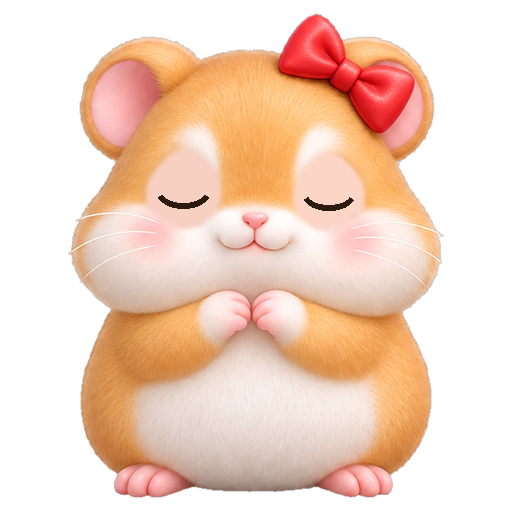
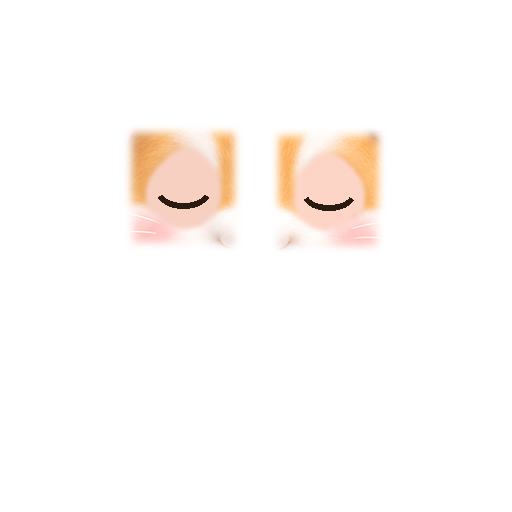
눈 깜빡임 전체 깜빡임 수정, 보드 가운데 제목 넘침 수정, 건설 불가 이유 표시, 독점 건설 안내 (CHG-036~039)

diff --git a/js/ui.js b/js/ui.js
@@ -63,12 +63,12 @@
 
   // ---------- 토스트 ----------
   let toastTimer = 0;
-  function toast(text) {
+  function toast(text, ms) {
     const el = $('#toast');
     el.textContent = text;
     el.classList.add('show');
     clearTimeout(toastTimer);
-    toastTimer = setTimeout(() => el.classList.remove('show'), 2200);
+    toastTimer = setTimeout(() => el.classList.remove('show'), ms || 2200);
   }
 
   // ---------- 모달 ----------
@@ -145,6 +145,7 @@
 
   function enterGame() {
     cancelQuiz();
+    resetMonoSeen();
     endFxDone = false;
     document.querySelectorAll('#end-fx').forEach((x) => x.remove());
     Object.keys(layers).forEach(closeModal);
@@ -867,6 +868,15 @@
           bubble(ev.from, '내 땅이… 😭');
           await sleep(fast ? 250 : 900);
           break;
+        case 'buildBlocked': // 내 땅인데 지을 수 없을 때 이유 (REQ-101)
+          if (ev.pid === HUMAN) {
+            const sp = BOARD[ev.pos], me = S.players[HUMAN];
+            const money = sp.house && me.money < sp.house ? ` (건설비 ${fmt(sp.house)} · 가진 씨앗 ${fmt(me.money)})` : '';
+            toast(`🏗 ${sp.name}: ${ev.reason}${money}`, 3500);
+            bubble(ev.pid, '못 지어요 😢');
+            await sleep(fast ? 150 : 500);
+          }
+          break;
         case 'cardVoid':
           bubble(ev.pid, ev.avoided ? '휴~ 피했다! 😌' : '카드 무효… 😢');
           mood(ev.pid, ev.avoided ? 'happy' : 'sad', 1500);
@@ -1028,6 +1038,7 @@
     layoutTokens();
     syncStateModal();
     syncCardQuiz();
+    checkNewMonopoly();
     if (layers.user && layers.user._refresh) {
       const r = layers.user._refresh;
       refreshing = true;
@@ -1132,6 +1143,7 @@
       } else {
         html = `<div class="msg">🐹 내 차례!</div><div class="sub">가운데 주사위 아래 버튼(또는 스페이스바)을 꾹 눌렀다 떼면 던져요</div>`;
       }
+      html += buildHint();
     } else if (S.phase === 'buy') {
       html = `<div class="msg">📍 ${BOARD[S.pendingBuy].name}에 도착!</div>
         <div class="btns"><button class="btn primary" data-a="showBuy">구매 창 열기</button></div>`;
@@ -1156,6 +1168,7 @@
         ? `<div class="msg">🎲 더블! 한 번 더 굴려요</div><div class="sub">가운데 주사위 아래 버튼을 꾹 눌렀다 떼세요</div>`
         : `<div class="msg">📍 ${here.name}</div><div class="sub">건설·저당·거래를 하고 턴을 끝내세요</div>
            <div class="btns"><button class="btn primary big" data-a="endTurn" data-primary>턴 끝내기 ✔</button></div>`;
+      html += buildHint();
     }
     if (S.phase !== 'postRoll') autoPaused = false;
     if (autoEndReady()) scheduleAutoEnd(); else clearAutoEnd();
@@ -1163,6 +1176,30 @@
     box._html = html;
     box.innerHTML = html;
     box.querySelectorAll('[data-a]').forEach((b) => { b.onclick = () => onAction(b.dataset.a); });
+  }
+
+  // 같은 색을 다 모은 도시에 지금 지을 수 있는 건물 수 안내 (UI-008) — "내 땅 관리"에선 여러 채를 한 번에 지을 수 있음
+  function buildHint() {
+    const n = E.ownedBy(S, HUMAN).filter((i) => !E.canBuild(S, HUMAN, i)).length;
+    if (!n) return '';
+    return `<div class="build-hint"><span>🏠 같은 색을 다 모은 도시 ${n}곳에 지금 건물을 지을 수 있어요. 한 턴에 여러 채도 돼요!</span>
+      <button class="btn small" data-a="manage">내 땅 관리 열기</button></div>`;
+  }
+
+  // 같은 색을 처음 다 모았을 때 알림 (UI-008). 이어하기로 들어온 게임의 기존 독점은 알리지 않음
+  let monoSeen = new Set();
+  function propGroups() { return Object.keys(GROUPS).filter((g) => g !== 'airport' && g !== 'util'); }
+  function resetMonoSeen() { monoSeen = new Set(propGroups().filter((g) => E.ownsGroup(S, HUMAN, g))); }
+  function checkNewMonopoly() {
+    if (busy || !S || S.phase === 'gameover') return;
+    for (const g of propGroups()) {
+      const has = E.ownsGroup(S, HUMAN, g);
+      if (has && !monoSeen.has(g)) {
+        monoSeen.add(g);
+        toast(`🏠 ${GROUPS[g].name} 색을 다 모았어요! '내 땅 관리'에서 건물을 여러 채 지을 수 있어요`, 5000);
+        bubble(HUMAN, '다 모았다! 🎉');
+      } else if (!has) monoSeen.delete(g); // 거래 등으로 잃으면 다시 모았을 때 또 알림
+    }
   }
 
   function onAction(a) {

diff --git a/css/style.css b/css/style.css
@@ -175,7 +175,8 @@ button { font-family: inherit; }
 
 /* 보드 중앙 */
 .center { grid-row: 2 / 11; grid-column: 2 / 11; display: flex; align-items: center; justify-content: center; background: radial-gradient(circle, #fff9e9 0, #fbe5b3 100%); border-radius: calc(1 * var(--u)); }
-.center-inner { display: flex; flex-direction: column; align-items: center; gap: calc(1.6 * var(--u)); }
+/* 가운데 내용은 세로로 쌓이므로 단위를 보드 높이 이하로 제한 — 넓은 보드에서 위·아래 칸에 걸치지 않게 (BUG-003) */
+.center-inner { --u: min(calc((1cqw + 1cqh) / 2), 1cqh); display: flex; flex-direction: column; align-items: center; gap: calc(1.6 * var(--u)); }
 .center-logo { font-family: var(--font-title); font-size: calc(5.4 * var(--u)); color: #c97a00; text-shadow: 0 calc(.4 * var(--u)) 0 #ffe1a1; transform: rotate(-4deg); }
 .center-info { font-size: calc(2.2 * var(--u)); color: var(--muted); text-align: center; line-height: 1.5; }
 .deck-row { display: flex; gap: calc(3 * var(--u)); }
@@ -823,9 +824,9 @@ button { font-family: inherit; }
 @keyframes wb-bob { 50% { transform: translate(-50%, -96%); } }
 
 /* ---------- 눈 깜빡임 (REQ-130) ---------- */
+/* 기본 그림은 그대로 두고 같은 윤곽의 감은 눈 그림을 위에 겹친다 — 기본 그림을 숨기면 0.2초 전환 때문에 전체가 깜빡임 (BUG-002) */
 .himg .hm-blink { transition: none; }
 .himg.blinking .hm-blink { opacity: 1; }
-.himg.blinking:has(.hm-blink) .hb { opacity: 0; transition: none; }
 .hamster.blinking .eyes-open { display: none; }
 .hamster.blinking .eyes-closed { display: inline; }
 
@@ -866,3 +867,6 @@ button { font-family: inherit; }
   }
   .sheet-handle i { width: 46px; height: 5px; border-radius: 3px; background: #c9b48f; }
 }
+
+/* 지금 지을 수 있는 건물 안내 (UI-008) */
+.build-hint { margin-top: 10px; padding: 8px 10px; border: 2px dashed var(--accent); border-radius: 12px; background: #fff4d6; display: flex; flex-direction: column; align-items: center; gap: 6px; font-size: 14px; text-align: center; color: var(--accent-ink); }

diff --git a/js/engine.js b/js/engine.js
@@ -328,7 +328,11 @@
           return;
         }
         if (pr.owner === pid) {
-          if (!canLandBuild(s, pid, i)) { s.phase = 'build'; s.pendingBuild = i; }
+          const why = canLandBuild(s, pid, i);
+          if (!why) { s.phase = 'build'; s.pendingBuild = i; return; }
+          // 지을 수 없으면 이유를 알림 (REQ-101). 기록은 사람만 (컴퓨터 것까지 남기면 기록이 너무 길어짐)
+          emit(s, { type: 'buildBlocked', pid, pos: i, reason: why });
+          if (!p.isAI) log(s, `${p.name}: ${sp.name}에 건물을 지을 수 없어요 — ${why}`);
           return;
         }
         if (ctx && ctx.noRent) { log(s, `${p.name}: 무료 항공권으로 ${sp.name} 통행료 면제!`, 'good'); return; }
@@ -594,9 +598,10 @@
   // 내 땅에 도착했을 때 짓기: 같은 색을 다 갖지 않아도, 균등 규칙 없이 한 단계
   function canLandBuild(s, pid, i) {
     const sp = BOARD[i], pr = s.props[i];
-    if (!pr || sp.type !== 'prop' || pr.owner !== pid) return '내 도시가 아니에요';
-    if (pr.mortgaged) return '저당 잡힌 도시예요';
-    if (pr.houses >= 5) return '이미 궁전이 있어요';
+    if (!pr || pr.owner !== pid) return '내 도시가 아니에요';
+    if (sp.type !== 'prop') return '공항·공공시설에는 건물을 지을 수 없어요';
+    if (pr.mortgaged) return '저당 잡힌 도시예요 (저당을 풀면 지을 수 있어요)';
+    if (pr.houses >= 5) return '이미 궁전까지 다 지었어요';
     if (pr.houses < 4 && s.bankHouses < 1) return '은행에 굴이 다 떨어졌어요';
     if (pr.houses === 4 && s.bankHotels < 1) return '은행에 궁전이 다 떨어졌어요';
     if (P(s, pid).money < sp.house) return '해바라기씨가 부족해요';

diff --git a/tests/quiz.js b/tests/quiz.js
@@ -113,6 +113,32 @@ console.log('== 내 땅에 도착하면 건물 짓기 ==');
   check(E.act(s, H, { type: 'skipBuild' }) === '' && s.phase === 'postRoll' && s.props[3].houses === 0, '안 짓기');
 }
 
+console.log('== 내 땅인데 지을 수 없으면 이유 알림 ==');
+for (const [label, setup, pos, expect] of [
+  ['공항', (s) => { s.props[5].owner = H; }, 5, '공항·공공시설'],
+  ['저당', (s) => { s.props[3].owner = H; s.props[3].mortgaged = true; }, 3, '저당'],
+  ['돈 부족', (s) => { s.props[3].owner = H; s.players[H].money = 20; }, 3, '해바라기씨가 부족'],
+  ['궁전 완성', (s) => { s.props[3].owner = H; s.props[3].houses = 5; s.bankHotels--; }, 3, '궁전까지'],
+  ['은행 굴 없음', (s) => { s.props[3].owner = H; s.bankHouses = 0; }, 3, '굴이 다 떨어졌'],
+]) {
+  const s = game();
+  setup(s);
+  s.seed = seedFor(s.seed, 1, 2);
+  s.players[H].pos = pos - 3;
+  if (s.players[H].pos < 0) s.players[H].pos += 40;
+  E.act(s, H, { type: 'roll' });
+  const ev = s.events.find((e) => e.type === 'buildBlocked');
+  check(s.phase === 'postRoll' && ev && ev.pos === pos && ev.reason.includes(expect) && s.log.some((l) => l.text.includes('지을 수 없어요')), `${label}: 건설 단계 없이 이유 "${ev && ev.reason}"`);
+}
+{
+  const s = game();
+  const ai = (H + 1) % 4;
+  s.current = ai; s.props[5].owner = ai;
+  s.seed = seedFor(s.seed, 1, 2); s.players[ai].pos = 2;
+  E.act(s, ai, { type: 'roll' });
+  check(s.events.some((e) => e.type === 'buildBlocked') && !s.log.some((l) => l.text.includes('지을 수 없어요')), '컴퓨터: 이벤트만, 기록은 남기지 않음');
+}
+
 console.log('== 세계 이벤트 (5바퀴마다) ==');
 {
   const s = game();

diff --git a/tools/make_blink.py b/tools/make_blink.py
@@ -1,4 +1,5 @@
 """햄스터 눈 감은 프레임 만들기: assets/hamsters/<id>.png → <id>-blink.png  (REQ-130 눈 깜빡임)
+결과는 눈 부분만 있는 겹침용 그림 (나머지 투명) — 게임이 기본 그림 위에 겹쳐 보인다.
 
 사용법: python tools/make_blink.py [id ...]   (생략하면 4마리 모두)
 
@@ -77,6 +78,16 @@ def make(id_):
         lw = max(3, int(ew * 0.11))
         box = [cx - ew * 0.45, cy - ew * 0.28, cx + ew * 0.45, cy + ew * 0.28]
         d.arc(box, start=20, end=160, fill=(43, 26, 16, 255), width=lw)  # 아래로 휜 감은 눈 ‿
+    # 게임은 이 그림을 기본 그림 "위에 겹쳐" 쓴다 → 눈 부분만 남기고 나머지는 투명하게
+    # (윤곽까지 겹치면 반투명 가장자리가 두 번 칠해져 깜빡일 때마다 테두리가 진해짐, BUG-002)
+    keep = np.zeros(px.shape[:2], bool)
+    for _, x0, y0, x1, y1, _m in eyes:
+        ew, eh = x1 - x0, y1 - y0
+        keep[max(0, int(y0 - eh * 0.35)):int(y1 + eh * 0.35), max(0, int(x0 - ew * 0.35)):int(x1 + ew * 0.35)] = True
+    soft_keep = np.asarray(Image.fromarray((keep * 255).astype('uint8')).filter(ImageFilter.GaussianBlur(4))) / 255.0
+    arr = np.array(res)
+    arr[..., 3] = (arr[..., 3] * soft_keep).astype('uint8')
+    res = Image.fromarray(arr)
     dst = os.path.join(DIR, id_ + '-blink.png')
     res.save(dst)
     print(f'{dst}: eyes at {[(int(e[1]), int(e[2]), int(e[3]), int(e[4])) for e in eyes]}')

diff --git a/docs/MASTER_PRD.md b/docs/MASTER_PRD.md
@@ -5,7 +5,7 @@
 
 | 항목 | 내용 |
 |---|---|
-| 기준 변경 | CHG-035 (코드를 문서에 맞춤: 눈 깜빡임 · 쳇바퀴 파산 · 휴대폰 하단 시트 · BUG-001) |
+| 기준 변경 | CHG-039 (같은 색 독점 시 여러 채 건설 안내) |
 | 갱신일 | 2026-11-02 |
 | 플랫폼 | 웹 브라우저 (PC 우선, 휴대폰 대응) |
 | 플레이 인원 | 사람 1명 + 컴퓨터 1~3명 |
@@ -138,7 +138,7 @@
 - **REQ-021** 주인 없는 칸 도착 → 정가 구매 또는 거절. 거절하면 즉시 경매(모든 플레이어, 현재 플레이어부터 돌아가며 입찰/포기, 포기하면 재참여 불가, 최고 입찰자만 남으면 낙찰).
 - **REQ-022** 남의 칸 도착 → 통행료 지불(저당 잡힌 땅은 통행료 없음). 통행료 = 기본 통행료 × 세계 이벤트 배율(REQ-121), 반올림.
 - **REQ-023** 독점: 같은 색 그룹을 모두 소유하면 건물 없는 칸의 기본 통행료 2배.
-- **REQ-024** "내 땅 관리"로 짓기: 독점 그룹에서 **균등 건설**(칸 사이 차이 ≤1), 그룹에 저당 칸이 있으면 불가, 굴 4채 → 궁전 1채(굴 4채 반납 + 건설비 1회), 은행 재고가 없으면 불가.
+- **REQ-024** "내 땅 관리"로 짓기: 독점 그룹에서 **균등 건설**(칸 사이 차이 ≤1), 그룹에 저당 칸이 있으면 불가, 굴 4채 → 궁전 1채(굴 4채 반납 + 건설비 1회), 은행 재고가 없으면 불가. **한 턴에 지을 수 있는 수에는 제한이 없다** (사람·컴퓨터 같은 규칙 — 그래서 독점한 컴퓨터는 한 턴에 궁전까지 올리기도 함; 2026-11-02 사용자 결정으로 유지, CHG-039). 도착 건설(REQ-101)은 도착 1번에 1단계.
 - **REQ-025** 건물 매각은 건설비의 50% 환급, 균등하게 매각. 은행 굴이 4채 미만일 때 궁전 매각은 궁전을 통째로 팔고 굴 5채 값의 절반 환급.
 - **REQ-026** 저당: 저당가 수령, 해제 시 저당가 + 10%. 건물이 있는 그룹의 칸은 저당 불가.
 - **REQ-027** 저당 잡힌 땅을 거래·파산으로 받으면 이자 10%를 자동으로 내고 저당 상태로 받는다.
@@ -268,7 +268,7 @@
 
 ### SYS-009 특수 규칙
 - **REQ-100 텔레포트(20번 칸)**: 도착하면 보드 칸을 눌러 원하는 칸으로 순간이동(확인 창에 빈 땅/내 땅/남의 땅 통행료/케이지 경고 안내), "그대로 있기" 가능. 이동한 칸의 효과 적용. 20번보다 앞 번호 칸으로 가면 출발 통과(🌻200, 0번에 정확히 도착하면 옵션 REQ-151 적용). 옵션 상금(REQ-150)은 받고 텔레포트.
-- **REQ-101 내 땅 건설**: 내 도시(공항·공공시설 제외)에 도착하면 "건물을 지을까요?" 창 — 건설비와 통행료 변화(예: 🌻4 → 🌻20) 표시. 같은 색을 다 갖지 않아도, 균등 규칙 없이 도착할 때마다 한 단계. 저당 중·재고 없음·돈 부족이면 불가.
+- **REQ-101 내 땅 건설**: 내 도시(공항·공공시설 제외)에 도착하면 "건물을 지을까요?" 창 — 건설비와 통행료 변화(예: 🌻4 → 🌻20) 표시. 같은 색을 다 갖지 않아도, 균등 규칙 없이 도착할 때마다 한 단계. **내 땅에 도착했는데 지을 수 없으면 창 대신 이유를 알린다** (사람: 화면 아래 안내 3.5초 + 말 위 "못 지어요 😢" + 게임 기록 한 줄; 컴퓨터는 알리지 않음). 이유: 공항·공공시설 / 저당 중(저당을 풀면 가능) / 해바라기씨 부족(건설비·가진 씨앗 표시) / 이미 궁전 / 은행에 굴·궁전 없음.
 - **REQ-102 강제 매입**: 남의 칸에서 통행료를 다 낸 뒤, 궁전이 없고 저당이 아닌 땅이면 "강제로 사 버릴까요?" 창. **매입가 = (땅값 + 지은 건물 공사비) × 1.2, 10 단위 올림**. 매입가는 원래 주인에게, 건물도 함께 넘어온다. 빚이 생겼거나 매입가만큼 돈이 없으면 제안 없음.
 - **REQ-120 세계 이벤트**: 5·10·15…바퀴가 시작될 때 시드 난수로 하나 발생, 큰 카드로 발표.
 - **REQ-121** 세계 이벤트 종류
@@ -301,7 +301,7 @@
 - **REQ-114** 컴퓨터 햄스터는 짧은 말풍선 리액션을 한다 ("찍찍! ○○는 내 거야!" 등).
 
 ### SYS-011 연출 · 사운드
-- **REQ-130** 햄스터 말: 골든 햄스터 4종 (해바라기=노랑·해바라기 꽃, 보리=빨강·리본, 콩떡=파랑·모자, 땅콩=초록·안경과 스카프). 대기 중 숨쉬기와 **가끔 눈 깜빡임**(약 0.15초, 가끔 두 번; 말·시작 화면·배경 햄스터, 표정 중이거나 케이지·파산 중이면 안 함 — 그림 햄스터는 감은 눈 프레임 `<id>-blink.png`, SVG 햄스터는 감은 눈 모양), 칸마다 폴짝 이동, 기쁨/슬픔/잠 표정(그림이 없으면 확대·기울이기·눈물·Zz). 같은 칸에서 겹치지 않게 배치. **파산하면 쳇바퀴 위에서 달리다 떨어지며 퇴장**(1.5초, 빨리 감기 0.45초) 후 말이 사라짐.
+- **REQ-130** 햄스터 말: 골든 햄스터 4종 (해바라기=노랑·해바라기 꽃, 보리=빨강·리본, 콩떡=파랑·모자, 땅콩=초록·안경과 스카프). 대기 중 숨쉬기와 **가끔 눈 깜빡임**(약 0.15초, 가끔 두 번; 말·시작 화면·배경 햄스터, 표정 중이거나 케이지·파산 중이면 안 함 — 그림 햄스터는 기본 그림 위에 눈 부분만 있는 감은 눈 그림 `<id>-blink.png`를 겹쳐 **눈만 바뀌고 몸·윤곽은 그대로**, SVG 햄스터는 감은 눈 모양), 칸마다 폴짝 이동, 기쁨/슬픔/잠 표정(그림이 없으면 확대·기울이기·눈물·Zz). 같은 칸에서 겹치지 않게 배치. **파산하면 쳇바퀴 위에서 달리다 떨어지며 퇴장**(1.5초, 빨리 감기 0.45초) 후 말이 사라짐.
 - **REQ-131** 기쁜 지출(구매·낙찰·건설)과 돈을 받을 때는 웃는 얼굴 + 동전 소리, 통행료·세금·벌금 등은 슬픈 얼굴.
 - **REQ-132** 건설 연출: 칸 위 공사 장면(크레인·망치·흙먼지, 약 1.2초, 빨리 감기 0.4초) 후 건물이 보드 안쪽 가장자리에 입체적으로 일어선다.
 - **REQ-133** 주사위: 사용자 그림 `assets/dice/face1~6.png`(치즈 주사위) → `face.png` → 유리구슬 3D 주사위 순으로 사용. 포물선 비행·회전·통통 튐(0.9~1.8초, 빨리 감기 0.34초), 최대 높이는 보드 안.
@@ -321,8 +321,9 @@
 - **UI-002 배경**: 시작·게임 화면 모두 화면 전체에 세계지도(Natural Earth로 만든 `assets/background/world-map.svg`) + 대륙 위 햄스터 8마리 + 점선 여행 경로, 불투명도 38%, 눌리지 않음. `assets/background/bg.png`가 있으면 그 그림으로 대체.
 - **UI-003 게임 화면 배치**: 왼쪽 보드는 화면 높이에 꽉 차게, 넓은 화면에서 가로 최대 1.45배까지 늘어나는 직사각형(900px 이하 정사각형). 오른쪽 끝 패널: 도구 모음(🏠 내 땅 관리, 🤝 거래, ⏩ 빨리 감기, 🎵 배경음악, 🔊 효과음, ☰ 메뉴) / 플레이어 카드 / 할 일 / 게임 기록. 보드 안 크기는 보드 가로·세로 평균의 1% 단위.
 - **UI-004 칸 표시**: 소유한 칸은 바탕이 주인 햄스터 색(52%)으로 물듦, 저당은 바랜 색 + "저당" 도장. 주인이 있는 칸(공공시설 제외)은 가격 대신 지금 통행료("통행 🌻20", 오르면 주황·내리면 파랑). 축제 그룹 칸은 반짝임. 텔레포트 고르는 동안 모든 칸이 보랏빛으로 반짝임.
-- **UI-005 보드 가운데**: 제목, 주사위, 힘 게이지, 결과 글자, 굴리기 버튼(젤리 사탕 모양, 사람이 굴릴 수 있을 때만), 바퀴 수·은행 재고·현재 세계 이벤트·다음 세계 이벤트 바퀴, 카드 더미, 해바라기씨 장식(불투명도 42%, 고정).
+- **UI-005 보드 가운데**: 제목, 주사위, 힘 게이지, 결과 글자, 굴리기 버튼(젤리 사탕 모양, 사람이 굴릴 수 있을 때만), 바퀴 수·은행 재고·현재 세계 이벤트·다음 세계 이벤트 바퀴, 카드 더미, 해바라기씨 장식(불투명도 42%, 고정). **가운데 내용은 어떤 화면 비율에서도 가운데 칸 안에 들어가야 한다** (위·아래 줄 칸에 걸치지 않음) — 가운데 내용의 크기 단위는 보드 높이를 넘지 않는다.
 - **UI-006 창(모달)**: 구매, 경매, 건설 제안, 강제 매입, 공격 대상, 거래 제안, 빚, 카드 공개, 세계 이벤트, 수학/카드 문제, 텔레포트 확인, 결과. 칸을 누르면 상세 카드(국기·랜드마크·통행료 표·주인·건물).
+- **UI-008 독점 건설 안내**: 사람이 어떤 색 그룹을 처음 다 모으면(구매·낙찰·거래·매입 등) 화면 아래 안내 5초 "🏠 ○○ 색을 다 모았어요! '내 땅 관리'에서 건물을 여러 채 지을 수 있어요" + 말 위 "다 모았다! 🎉". 이어하기로 들어온 게임에서 이미 가진 독점은 다시 알리지 않고, 잃었다가 다시 모으면 다시 알림. 또 내 차례(굴리기 전 · 굴린 뒤)에 지금 지을 수 있는 독점 도시가 있으면 할 일 패널에 "같은 색을 다 모은 도시 N곳에 지금 건물을 지을 수 있어요. 한 턴에 여러 채도 돼요!" + [내 땅 관리 열기].
 - **UI-007 휴대폰(900px 이하)**: 보드는 화면 위, 패널(도구 모음 → 할 일 → 플레이어 카드 2열 → 게임 기록)은 화면 아래에 고정된 **하단 시트**. 접힌 시트는 보드 아래 남는 높이(최소 200px)를 차지해 보드를 가리지 않고, 시트 안에서 스크롤. 위쪽 손잡이를 누르면 화면 높이의 82%까지 펼침/접기. 창(모달)은 시트 위에 뜬다. 가로 스크롤 없음.
 
 ---
@@ -332,7 +333,7 @@
 - **DATA-002 오버레이 우선순위** (`Engine.actor`): 빚 → 공격 대상 고르기 → 카드 문제 → 경매 → 거래 제안 → 현재 플레이어.
 - **DATA-003 엔진 행동** (`Engine.act`): roll, payFine, useJailCard, buy, decline, bid, pass, build, sell, mortgage, unmortgage, endTurn, landBuild, skipBuild, teleport{to}, takeover, skipTakeover, cardQuizAnswer{correct}, forfeitRoll, pickTarget{target}, proposeTrade, respondTrade, payDebt, bankrupt. 성공 시 `''`, 실패 시 한국어 사유.
 - **DATA-004 정적 데이터**: `js/data.js` (GROUPS, BOARD 40칸, CARDS 60장, HAMSTERS 4종, CONST: START_MONEY 1500, GO_SALARY 200, JAIL_FINE 50, JAIL_POS 10, BANK_HOUSES 32, BANK_HOTELS 12), `js/questions.js` (history, common: `{q, a, w:[오답2]}`).
-- **DATA-005 사용자 그림 자산** (없으면 대체): 햄스터 `assets/hamsters/<id>.png`(+ -happy/-sad/-sleep, 감은 눈 -blink는 `tools/make_blink.py`로 생성), 건물 `assets/buildings/house.png`·`palace.png`, 주사위 `assets/dice/face1~6.png`·`face.png`, 랜드마크, 국기, 배경 `assets/background/bg.png`, 음악 `assets/music/bgm.mp3`. 생성 프롬프트는 각 폴더의 `PROMPTS.md`, 라이선스는 `assets/LICENSES.md`.
+- **DATA-005 사용자 그림 자산** (없으면 대체): 햄스터 `assets/hamsters/<id>.png`(+ -happy/-sad/-sleep, 감은 눈 -blink는 `tools/make_blink.py`로 생성하는 눈 부분만 있는 겹침용 그림), 건물 `assets/buildings/house.png`·`palace.png`, 주사위 `assets/dice/face1~6.png`·`face.png`, 랜드마크, 국기, 배경 `assets/background/bg.png`, 음악 `assets/music/bgm.mp3`. 생성 프롬프트는 각 폴더의 `PROMPTS.md`, 라이선스는 `assets/LICENSES.md`.
 
 ---
 
@@ -374,6 +375,8 @@
 | KI-001 | 눈 깜빡임 미구현 | **Fixed** — CHG-035 (REQ-130) |
 | KI-002 | 파산 연출이 "쳇바퀴에서 떨어짐"과 다름 | **Fixed** — CHG-035 (REQ-130) |
 | KI-003 | 휴대폰 패널이 하단 시트가 아님 | **Fixed** — CHG-035 (UI-007) |
+| BUG-002 | 눈을 깜빡일 때 햄스터 전체가 깜빡임 (CHG-035에서 생김). [`BUGS/BUG-002.md`](BUGS/BUG-002.md) | **Fixed** — CHG-036 |
+| BUG-003 | 넓은 화면에서 보드 가운데 제목이 위쪽 칸에 걸침. [`BUGS/BUG-003.md`](BUGS/BUG-003.md) | **Fixed** — CHG-037 |
 | KI-004 | "보통: 독점 시 3채까지 우선 건설" | **No change needed** — 다시 확인하니 컴퓨터는 항상 가장 적게 지은 칸부터 지어 모든 독점 칸이 3채가 된 뒤에야 4채로 감 = 문서와 일치 (CHG-034 때 잘못 판단) |
 
 현재 열린 문제 없음.

diff --git a/docs/BUGS/BUG-002.md b/docs/BUGS/BUG-002.md
@@ -1,0 +1,34 @@
+# BUG-002 — 눈을 깜빡일 때 햄스터 전체가 깜빡임
+
+- 발견일: 2026-11-02 (사용자 신고: "눈을 깜빡일 때마다 캐릭터 전체가 깜빡여")
+- 상태: **Fixed** (CHG-036)
+- 관련 요구사항: REQ-130
+- 도입: CHG-035 (눈 깜빡임 추가)
+- 심각도: 중간 (눈에 띄는 깜빡임이 몇 초마다 반복)
+
+## 현상
+그림 햄스터가 눈을 깜빡일 때, 눈만 감았다 뜨는 것이 아니라 햄스터 전체가 순간 사라졌다가 흐릿하게 다시 나타난다.
+
+## 재현과 측정
+헤드리스 Chrome에서 한 마리에 `blinking`을 0.15초 붙였다 떼며 20~25ms마다 불투명도를 기록 (수정 전):
+
+| 시각 | 기본 그림 | 감은 눈 그림 |
+|---|---|---|
+| 0~150ms (감음) | 0.00 | 1.00 |
+| 151ms (뜸) | **0.00** | **0.00** ← 둘 다 안 보임 |
+| 176ms | 0.07 | 0.00 |
+| 226ms | 0.58 | 0.00 |
+| 351ms | 1.00 | 0.00 |
+
+## 원인
+깜빡이는 동안 기본 그림(`.hb`)을 숨기고 감은 눈 그림을 보였다. 감은 눈 그림은 즉시 사라지지만, 기본 그림에는 원래 `.himg img { transition: opacity .2s }`가 걸려 있어 0에서 1로 0.2초 동안 서서히 돌아온다. 그 사이 햄스터 전체가 사라졌다 흐릿하게 나타난다.
+
+## 해결
+1. 기본 그림은 숨기지 않고 그대로 두고, 감은 눈 그림을 그 위에 겹쳐 보였다 감춘다 (전환 없음).
+2. 겹치기만 하면 반투명한 윤곽 가장자리가 두 번 칠해져 깜빡일 때마다 **테두리가 1px 진해지는** 것이 픽셀 비교로 드러남 → 감은 눈 그림을 **눈 부분만 남기고 나머지는 투명**하게 다시 만듦 (`tools/make_blink.py`, 가장자리는 부드럽게).
+
+## 해결 기록
+2026-11-02, CHG-036
+- `css/style.css`: 깜빡임 중 기본 그림(`.hb`)을 숨기던 규칙 삭제 → 불투명도 기록에서 기본 그림이 내내 1.00
+- `tools/make_blink.py` + `assets/hamsters/*-blink.png` 4장 재생성: 눈 부분만 있는 겹침용 그림
+- 눈 뜬/감은 상태 픽셀 비교: 1단계(겹치기만)에서는 바뀐 픽셀이 눈 + 몸 전체 윤곽(가로 12~87%, 세로 2~97%) → 2단계(눈 부분만 있는 그림) 후 눈 부분만(가로 30~71%, 세로 27~43%)

diff --git a/docs/BUGS/BUG-003.md b/docs/BUGS/BUG-003.md
@@ -1,0 +1,31 @@
+# BUG-003 — 보드 가운데 제목이 위쪽 칸에 걸쳐 보임
+
+- 발견일: 2026-11-02 (사용자 신고: 스크린샷 — "햄스터 월드 투어라는 글자가 살짝 게임판에 걸쳐져 보여")
+- 상태: **Fixed** (CHG-037)
+- 관련 요구사항: UI-003, UI-005
+- 심각도: 낮음 (보기 문제, 진행 영향 없음)
+
+## 현상
+넓은 화면에서 보드 가운데 내용(제목 · 주사위 · 결과 · 굴리기 버튼 · 정보 줄 · 카드 더미)이 가운데 칸보다 높아져 제목이 위쪽 줄 칸(로마~파리)에 걸치고, 아래쪽 카드 더미도 아래 줄에 닿는다.
+
+## 재현과 측정
+헤드리스 Chrome, 가장 긴 경우(세계 이벤트 표시 + 더블 결과 + 텔레포트 상금 줄)에서 가운데 칸 높이와 내용 높이(px):
+
+| 화면 | 가운데 칸 | 내용 | 위로 넘침 | 아래로 넘침 |
+|---|---|---|---|---|
+| 1272×897 | 615 | 532 | - | - |
+| 1280×720 | 521 | 493 | - | - |
+| 1366×768 | 558 | 544 | - | - |
+| 1400×850 | 620 | 575 | - | - |
+| **1600×900** | 658 | 663 | **8** | - |
+| **1920×1080** | 795 | 830 | **25** | **10** |
+| 390×844 | 272 | 235 | - | - |
+
+## 원인
+보드 안 크기 단위 `--u`는 보드 **가로·세로 평균**의 1%(CHG-011). 넓은 화면에서는 보드가 가로로 최대 1.45배까지 늘어나므로, 세로로 쌓인 가운데 내용이 가로 폭에 비례해 커지지만 가운데 칸 높이는 세로에만 비례한다. CHG-030에서 가운데 정보에 2줄(현재 세계 이벤트, 다음 세계 이벤트)이 늘며 여유가 없어졌다.
+
+## 해결
+가운데 내용(`.center-inner`) 안에서만 단위를 `min(가로·세로 평균, 세로)`의 1%로 바꿔, 보드가 옆으로 넓어져도 가운데 내용은 보드 높이 기준으로만 커지게 한다. 정사각형 보드(900px 이하 포함)에서는 지금과 같다.
+
+## 해결 기록
+2026-11-02, CHG-037: `css/style.css` `.center-inner`에 `--u: min(calc((1cqw + 1cqh) / 2), 1cqh)`. 같은 측정 7개 화면에서 모두 넘침 없음 (아래 CHG-037 참고).

diff --git a/CLAUDE.md b/CLAUDE.md
@@ -50,7 +50,7 @@ Scripts are classic `<script>` tags (no ES modules, since `file://` blocks them)
 - Modals use three layers: `state` (buy/auction/trade offer/game over; derived from engine state in `syncStateModal`), `user` (windows the player opened), and `card`.
 - Other moving parts in this file: 3D buildings drawn on the board's inner edge (`renderBuildings`), the hold-to-roll power gauge (`startCharge`/`releaseCharge`), auto end-turn when nothing is left to do, and 3D CSS dice whose face rotations are in `FACE_ROT`. `window.HWT` exposes the state for debugging.
 
-**Sizing.** `sizeBoard()` sets explicit board pixels: it fills the screen height and widens up to 1.45× on wide screens (square at ≤900px). Inside the board, every size uses `calc(N * var(--u))`, where `--u` is the average of `cqw` and `cqh` on the board container. Don't write raw `cqw`/`cqh` in new CSS. Overlays appended to `<body>` (the construction scene) set `font-size` from the board size in JS and use `em` instead.
+**Sizing.** `sizeBoard()` sets explicit board pixels: it fills the screen height and widens up to 1.45× on wide screens (square at ≤900px). Inside the board, every size uses `calc(N * var(--u))`, where `--u` is the average of `cqw` and `cqh` on the board container. Don't write raw `cqw`/`cqh` in new CSS. Exception: `.center-inner` redefines `--u` as `min(avg, 1cqh)` because its content stacks vertically and would otherwise overflow the centre on wide (1.45×) boards (BUG-003) — keep new centre content inside it. Overlays appended to `<body>` (the construction scene) set `font-size` from the board size in JS and use `em` instead.
 
 **Assets are optional, user-supplied, and have fallbacks.** The user generates images with external AI tools; prompt guides live in `assets/*/PROMPTS.md`.
 

diff --git a/docs/BUGS/README.md b/docs/BUGS/README.md
@@ -5,3 +5,5 @@
 | ID | 제목 | 상태 |
 |---|---|---|
 | BUG-001 | 창(모달)이 건설 장면 애니메이션으로 열림 | Fixed (CHG-035) |
+| BUG-002 | 눈을 깜빡일 때 햄스터 전체가 깜빡임 | Fixed (CHG-036) |
+| BUG-003 | 보드 가운데 제목이 위쪽 칸에 걸쳐 보임 | Fixed (CHG-037) |
